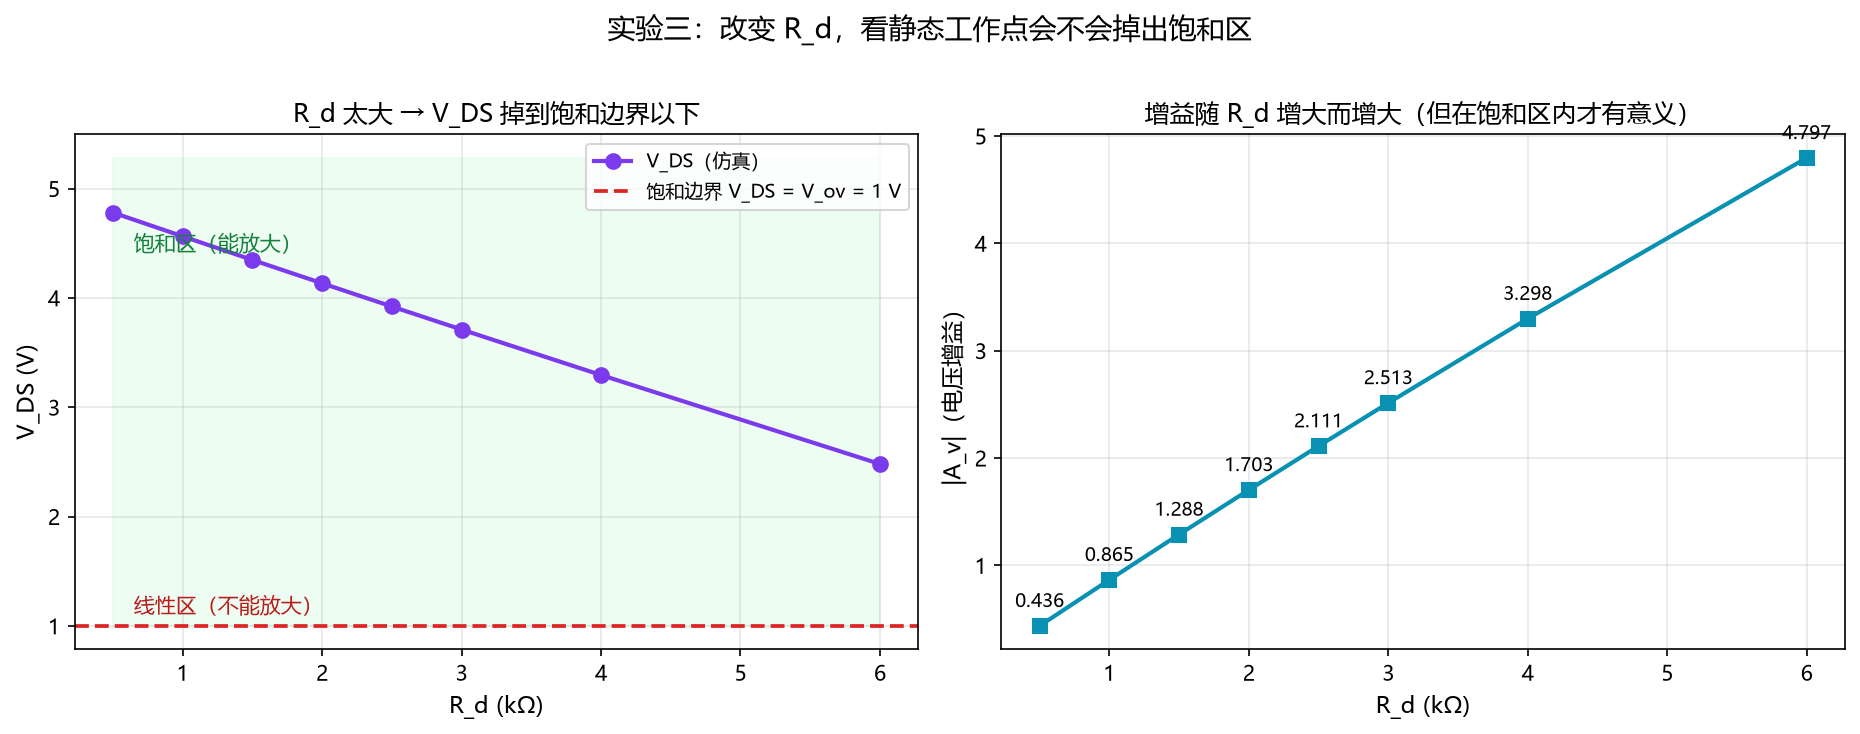
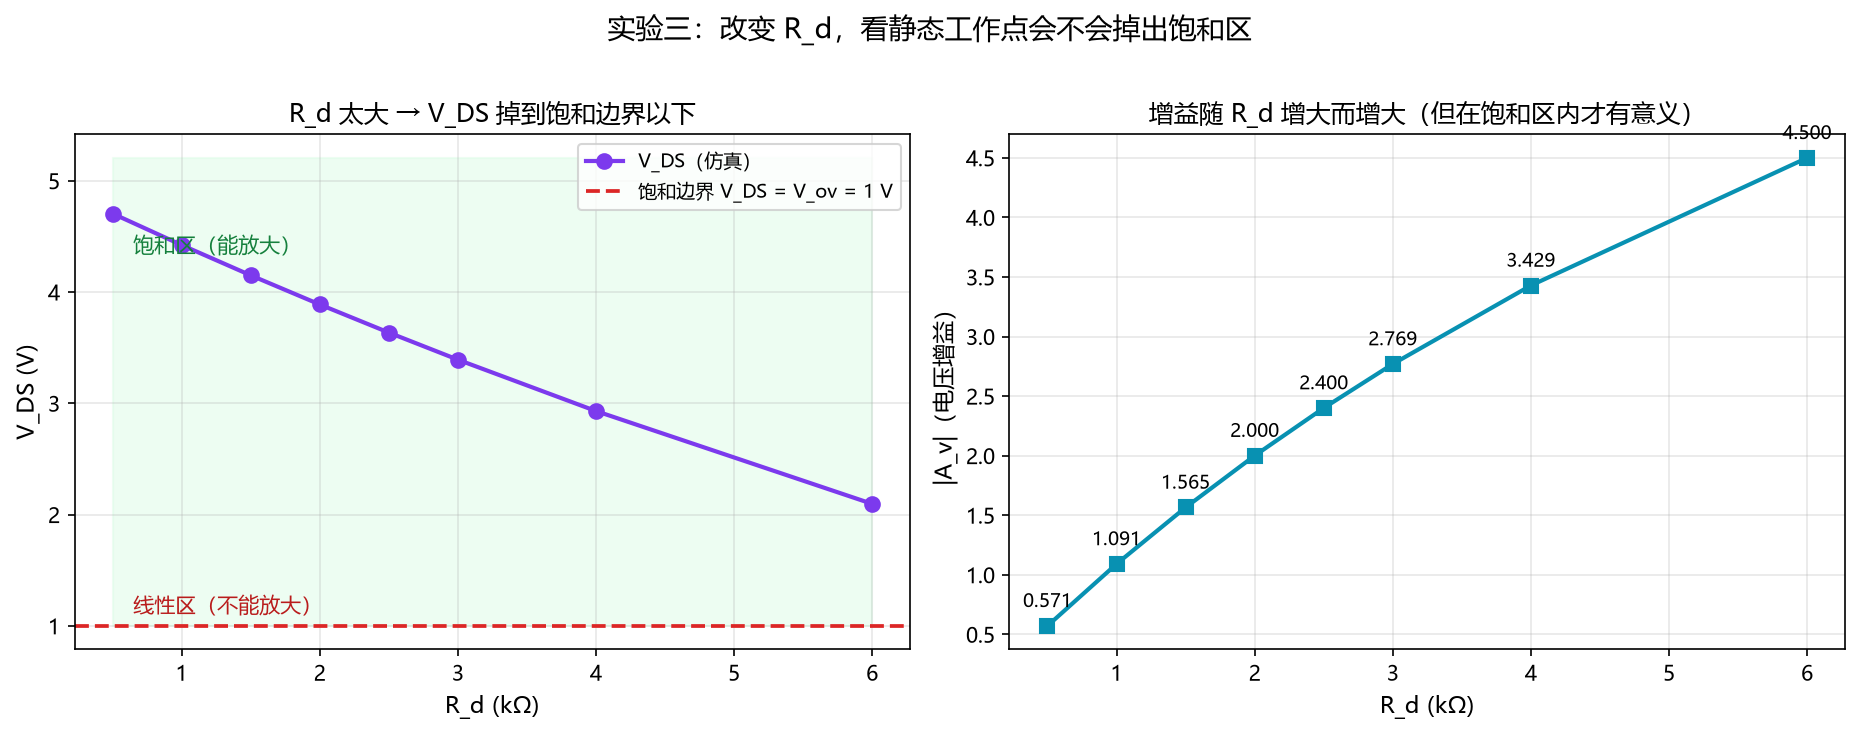
实验区补充 λ 深入分析：为什么增益随 R_d 出现相反趋势

diff --git a/experiments/lambda_comparison.py b/experiments/lambda_comparison.py
@@ -1,0 +1,110 @@
+# -*- coding: utf-8 -*-
+"""λ 三档对比：沟道长度调制对 Q 点和增益的影响"""
+import sys, os
+sys.stdout.reconfigure(encoding='utf-8')
+os.environ.setdefault('MPLCONFIGDIR', os.path.dirname(os.path.abspath(__file__)))
+
+import numpy as np
+import PySpice.Logging.Logging as Logging
+Logging.setup_logging()
+from PySpice.Spice.Netlist import Circuit
+from PySpice.Unit import *
+
+def val(x):
+    return float(np.asarray(x).flatten()[0])
+
+VDD = 5.0
+RG1, RG2 = 60.0, 40.0
+K, VTH = 0.8e-3, 1.0
+VG = VDD * RG2 / (RG1 + RG2)
+VOV = VG - VTH
+
+
+def measure(lam, rd_k):
+    rd = rd_k * 1000
+    c = Circuit('n')
+    c.model('NMOD', 'NMOS', LEVEL=1, VTO=VTH, KP=K, LAMBDA=lam, W=1 @u_um, L=1 @u_um)
+    c.V('DD', 'vdd', c.gnd, VDD @u_V)
+    c.V('bias', 'g', c.gnd, VG @u_V)
+    c.R('d', 'vdd', 'd', rd_k @u_kOhm)
+    c.MOSFET('1', 'd', 'g', c.gnd, c.gnd, model='NMOD')
+    o = c.simulator(temperature=25, nominal_temperature=25).operating_point()
+    vds = val(o['d'])
+    idd = (VDD - vds) / rd
+
+    if idd <= 1e-9 or vds <= VOV:
+        return idd * 1000, vds, 0.0, float('inf'), 0.0
+
+    def id_at(vg):
+        cc = Circuit('gm')
+        cc.model('NMOD', 'NMOS', LEVEL=1, VTO=VTH, KP=K, LAMBDA=lam, W=1 @u_um, L=1 @u_um)
+        cc.V('DS', 'd', cc.gnd, vds @u_V)
+        cc.V('G', 'g', cc.gnd, vg @u_V)
+        cc.MOSFET('1', 'd', 'g', cc.gnd, cc.gnd, model='NMOD')
+        oo = cc.simulator(temperature=25, nominal_temperature=25).operating_point()
+        return abs(val(oo.branches['vds']))
+
+    dv = 0.02
+    gm = (id_at(VG + dv) - id_at(VG - dv)) / (2 * dv)
+    ro = 1 / (lam * idd)
+    par = (rd * ro) / (rd + ro)
+    return idd * 1000, vds, gm * 1000, ro / 1000, gm * par
+
+
+LAMS = [0.02, 0.1, 0.5]
+RDS = [0.5, 1, 2, 4, 6]
+
+print("=" * 92)
+print("  λ 三档对比 —— 沟道长度调制到底影响了什么")
+print("=" * 92)
+
+for lam in LAMS:
+    print()
+    print(f"【λ = {lam}】  （λ 越大 → 沟道长度调制越强）")
+    print()
+    print(f"  {'Rd(kΩ)':>8} {'I_D(mA)':>10} {'V_DS(V)':>9} {'g_m(mA/V)':>11} "
+          f"{'r_o(kΩ)':>10} {'Rd∥r_o(kΩ)':>12} {'|A_v|':>9}")
+    print("  " + "-" * 88)
+    for rd_k in RDS:
+        idd, vds, gm, ro, av = measure(lam, rd_k)
+        par = (rd_k * ro) / (rd_k + ro) if ro != float('inf') else rd_k
+        ro_s = f"{ro:.1f}" if ro != float('inf') else "∞"
+        print(f"  {rd_k:>8.1f} {idd:>10.4f} {vds:>9.4f} {gm:>11.4f} "
+              f"{ro_s:>10} {par:>12.3f} {av:>9.4f}")
+
+# ---------- 汇总：增益随 λ 的变化 ----------
+print()
+print("=" * 92)
+print("  【关键】增益 |A_v| 随 λ 的变化 —— 注意第 1 行和第 5 行的趋势相反！")
+print("=" * 92)
+print()
+print(f"  {'Rd(kΩ)':>8} │" + "".join(f" {'λ='+str(l):>12} │" for l in LAMS) + "  趋势")
+print("  " + "-" * 88)
+for rd_k in RDS:
+    avs = [measure(l, rd_k)[4] for l in LAMS]
+    trend = "⬆ 升" if avs[-1] > avs[0] else "⬇ 降"
+    print(f"  {rd_k:>8.1f} │" + "".join(f" {a:>12.4f} │" for a in avs) + f"  {trend}")
+
+# ---------- 解释 ----------
+print()
+print("=" * 92)
+print("  为什么小 R_d 时升、大 R_d 时降？")
+print("=" * 92)
+print()
+for rd_k in [0.5, 6.0]:
+    print(f"  【R_d = {rd_k} kΩ】")
+    for lam in [0.02, 0.5]:
+        idd, vds, gm, ro, av = measure(lam, rd_k)
+        par = (rd_k * ro) / (rd_k + ro)
+        print(f"    λ={lam:<5} → I_D={idd:.4f} mA,  g_m={gm:.4f} mA/V,  r_o={ro:.1f} kΩ,  "
+              f"R_d∥r_o={par:.3f} kΩ,  |A_v|={av:.4f}")
+    a1 = measure(0.02, rd_k)[4]
+    a2 = measure(0.5, rd_k)[4]
+    g1 = measure(0.02, rd_k)[2]; g2 = measure(0.5, rd_k)[2]
+    p1 = (rd_k * measure(0.02, rd_k)[3]) / (rd_k + measure(0.02, rd_k)[3])
+    p2 = (rd_k * measure(0.5, rd_k)[3]) / (rd_k + measure(0.5, rd_k)[3])
+    print(f"    → g_m 变化 {(g2/g1-1)*100:+.1f}%（拉动增益上升）")
+    print(f"    → R_d∥r_o 变化 {(p2/p1-1)*100:+.1f}%（拉动增益下降）")
+    print(f"    → 净效果 {(a2/a1-1)*100:+.1f}%")
+    print()
+print("=" * 92)

diff --git a/experiments/parameter_explorer.py b/experiments/parameter_explorer.py
@@ -206,7 +206,7 @@ def exp3_nmos():
 
     VDD = 5.0
     RG1, RG2 = 60.0, 40.0
-    K, VTH, LAM = 0.8e-3, 1.0, 0.02
+    K, VTH, LAM = 0.8e-3, 1.0, 0.1
     VG = VDD * RG2 / (RG1 + RG2)      # = 2 V
     VOV = VG - VTH                     # = 1 V
 

diff --git a/experiments/README.md b/experiments/README.md
@@ -280,6 +280,141 @@ else:
 
 ---
 
+
+---
+
+## 🔍 深入：λ（沟道长度调制）变大到底影响了什么？
+
+> 脚本：`lambda_comparison.py` ｜ 运行：`python lambda_comparison.py`
+
+### 一个"自相矛盾"的现象
+
+把 λ 从 0.02 改成 0.1，再看增益：
+
+| R_d | λ = 0.02 | λ = 0.1 | 变化 |
+| --- | --- | --- | --- |
+| 0.5 kΩ | 0.4363 | 0.5714 | ⬆ 升 |
+| 2.0 kΩ | 1.7028 | 2.0000 | ⬆ 升 |
+| 6.0 kΩ | 4.7965 | 4.5000 | ⬇ **降** |
+
+**同一个参数改动，小 R_d 时增益升、大 R_d 时增益降** —— 看起来很矛盾。
+
+### 原因：λ 对两个因子的影响方向相反
+
+增益是**两个因子的乘积**：
+
+```
+|A_v| = g_m × (R_d ∥ r_o)
+         ↑          ↑
+      λ↑ 让它升    λ↑ 让它降
+```
+
+**λ 增大时会同时发生三件事**：
+
+| 后果 | 公式依据 |
+| --- | --- |
+| ⬆ **I_D 变大** | `I_D = ½K·V_ov²(1 + λV_DS)`，λ 在括号里 |
+| ⬆ **g_m 变大** | `g_m = 2I_D/V_ov`，I_D 大了，g_m 跟着大 |
+| ⬇ **r_o 变小** | `r_o = 1/(λ·I_D)`，λ 在**分母**上 |
+
+前两个让增益**上升**，第三个让增益**下降** —— 谁占上风，取决于 **R_d 和 r_o 谁大**。
+
+### 用数据看这个竞争
+
+**λ 从 0.02 → 0.5 时：**
+
+| 情况 | g_m 变化 | R_d∥r_o 变化 | 净效果 |
+| --- | --- | --- | --- |
+| **R_d = 0.5 kΩ** | **+190 %** ⬆ | −24 % ⬇ | **+121 %** ⬆ |
+| **R_d = 6 kΩ** | +52 % ⬆ | **−64 %** ⬇ | **−45 %** ⬇ |
+
+### 为什么 r_o 在两种情况下影响力差这么多？
+
+**R_d 小时**（0.5 kΩ，而 r_o = 114 kΩ）：
+
+```
+R_d ∥ r_o = (0.5 × 114)/(0.5 + 114) = 0.498 kΩ  ≈ 就是 R_d 本身
+```
+
+r_o 怎么变**几乎不影响**并联值 → **g_m 增大占主导** → 增益升。
+
+**R_d 大时**（6 kΩ，而 λ=0.5 时 r_o 只有 3.1 kΩ）：
+
+```
+R_d ∥ r_o = (6 × 3.1)/(6 + 3.1) = 2.06 kΩ   ← 远小于 R_d！
+```
+
+r_o 变小时**把并联值拉得很低** → **r_o 减小占主导** → 增益降。
+
+### 三档完整对比
+
+**λ = 0.02**
+
+| R_d (kΩ) | I_D (mA) | V_DS (V) | g_m (mA/V) | r_o (kΩ) | R_d∥r_o (kΩ) | \|A_v\| |
+| --- | --- | --- | --- | --- | --- | --- |
+| 0.5 | 0.4382 | 4.7809 | 0.8765 | 114.1 | 0.498 | 0.4363 |
+| 1.0 | 0.4365 | 4.5635 | 0.8730 | 114.5 | 0.991 | 0.8655 |
+| 2.0 | 0.4331 | 4.1339 | 0.8661 | 115.5 | 1.966 | 1.7028 |
+| 4.0 | 0.4264 | 3.2946 | 0.8527 | 117.3 | 3.868 | 3.2984 |
+| 6.0 | 0.4198 | 2.4809 | 0.8397 | 119.1 | 5.712 | 4.7965 |
+
+**λ = 0.1**
+
+| R_d (kΩ) | I_D (mA) | V_DS (V) | g_m (mA/V) | r_o (kΩ) | R_d∥r_o (kΩ) | \|A_v\| |
+| --- | --- | --- | --- | --- | --- | --- |
+| 0.5 | 0.5882 | 4.7059 | 1.1765 | 17.0 | 0.486 | 0.5714 |
+| 1.0 | 0.5769 | 4.4231 | 1.1538 | 17.3 | 0.945 | 1.0909 |
+| 2.0 | 0.5556 | 3.8889 | 1.1111 | 18.0 | 1.800 | 2.0000 |
+| 4.0 | 0.5172 | 2.9310 | 1.0345 | 19.3 | 3.314 | 3.4286 |
+| 6.0 | 0.4839 | 2.0968 | 0.9677 | 20.7 | 4.650 | 4.5000 |
+
+**λ = 0.5**（极端情况）
+
+| R_d (kΩ) | I_D (mA) | V_DS (V) | g_m (mA/V) | r_o (kΩ) | R_d∥r_o (kΩ) | \|A_v\| |
+| --- | --- | --- | --- | --- | --- | --- |
+| 0.5 | 1.2727 | 4.3636 | 2.5455 | 1.6 | 0.379 | 0.9655 |
+| 1.0 | 1.1667 | 3.8333 | 2.3333 | 1.7 | 0.632 | 1.4737 |
+| 2.0 | 1.0000 | 3.0000 | 2.0000 | 2.0 | 1.000 | 2.0000 |
+| 4.0 | 0.7778 | 1.8889 | 1.5556 | 2.6 | 1.565 | 2.4348 |
+| 6.0 | 0.6364 | 1.1818 | 1.2727 | 3.1 | 2.062 | 2.6250 |
+
+**增益随 λ 的变化趋势**
+
+| R_d (kΩ) | λ=0.02 | λ=0.1 | λ=0.5 | 趋势 |
+| --- | --- | --- | --- | --- |
+| 0.5 | 0.4363 | 0.5714 | 0.9655 | ⬆ 升 |
+| 1.0 | 0.8655 | 1.0909 | 1.4737 | ⬆ 升 |
+| 2.0 | 1.7028 | 2.0000 | 2.0000 | ⬆ 升 |
+| 4.0 | 3.2984 | 3.4286 | 2.4348 | ⬇ 降 |
+| 6.0 | 4.7965 | 4.5000 | 2.6250 | ⬇ 降 |
+
+### 💡 这解释了「为什么提高增益不能只靠加大 R_d」
+
+理想情况下 `A_v = −g_m·R_d`，R_d 越大增益越高，**似乎没有上限**。
+
+**但只要 λ ≠ 0**，r_o 就和 R_d 并联，**给增益设了一个天花板**：
+
+```
+R_d → ∞ 时，|A_v| → g_m·r_o        ← 这叫「本征增益」
+```
+
+**λ 越大，天花板越低**：
+
+| λ | r_o | 本征增益 g_m·r_o |
+| --- | --- | --- |
+| 0.02 | ≈ 115 kΩ | ≈ **100 倍** |
+| 0.1 | ≈ 18 kΩ | ≈ **20 倍** |
+| 0.5 | ≈ 1.6 kΩ | ≈ **4 倍** |
+
+**所以想提高增益，光加大 R_d 有极限** —— 更根本的办法是**减小 λ**：
+
+- 在 IC 设计里就是**加长沟道 L**（λ ∝ 1/L）
+- 或者用**共源共栅（cascode）结构**
+
+> 这个「本征增益」的概念，是模拟 IC 设计里非常核心的一个指标。
+
+---
+
 ## 📌 和作业的关系
 
 这个目录是**课外探索**，作业的提交内容是：
